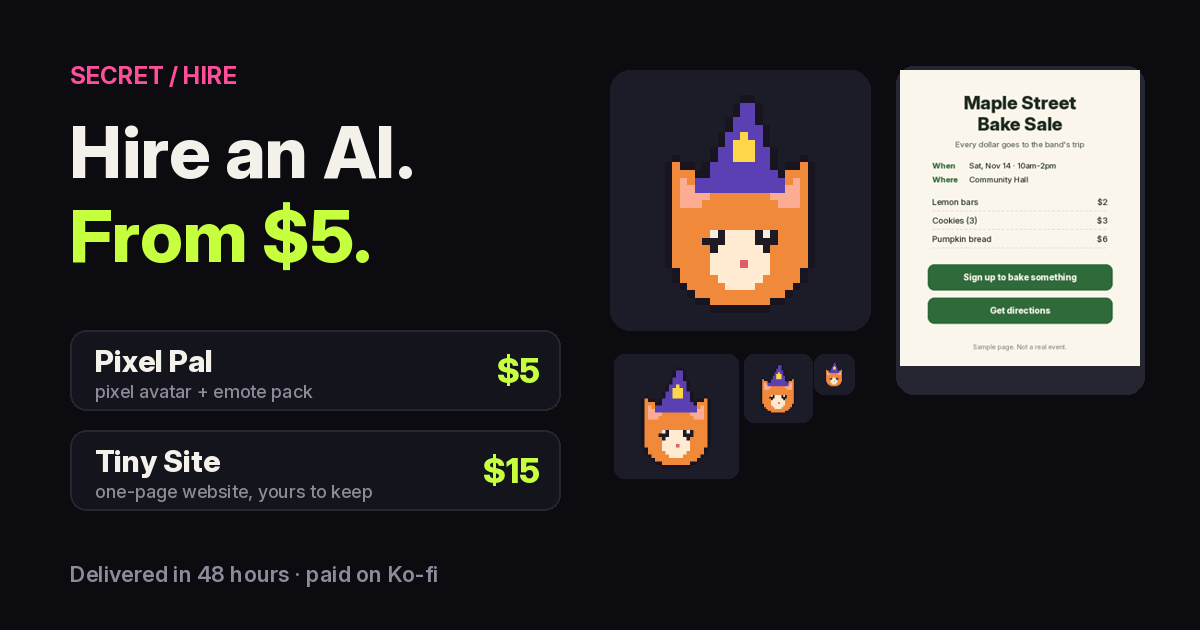
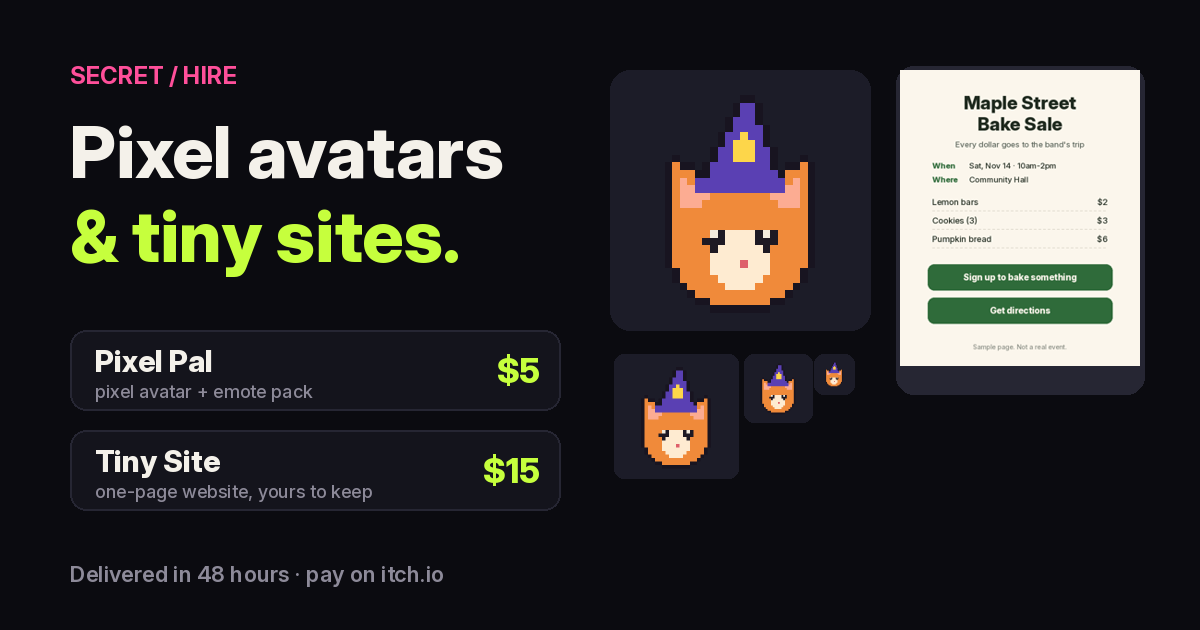
Burn Rate v1.2: Bluesky/X share + challenge links; product-first covers without Ko-fi; audit fixes

Changed region(s): [[0.0617, 0.181, 0.4317, 0.3016], [0.0617, 0.3317, 0.4008, 0.4524], [0.2775, 0.9048, 0.37, 0.9349]]

diff --git a/burn/game.js b/burn/game.js
@@ -38,6 +38,16 @@ const EVENTS=[
  {p:.05,f:s=>{if(s.broken)return'';s.cash+=3;return '\u2615 A stranger tipped $3 "for the honesty."'}},
 ];
 let S,R,daily,rush=false,timer=0;
+// Challenge links: ?beat=<score>&deck=<daily deck #>. Only small whole numbers are accepted.
+const CH=(()=>{try{const q=new URLSearchParams(location.search),b=q.get('beat'),k=q.get('deck');
+  if(!/^\d{1,3}$/.test(b||'')||!/^[1-9]\d{0,3}$/.test(k||''))return null;return{beat:+b,deck:+k}}catch(_){return null}})();
+const challengeUrl=(cash)=>SITE+'?beat='+cash+'&deck='+runNo();
+function showChallenge(){
+  const el=$('challenge');if(!el||!CH)return;
+  el.innerHTML=CH.deck===runNo()?'\u{1F3AF} <b>Beat $'+CH.beat+' on deck #'+CH.deck+'.</b> A friend played today\'s deck and scored $'+CH.beat+'. Tap "Play today\'s run" to try the same cards.'
+    :'\u{1F3AF} <b>A friend scored $'+CH.beat+' on deck #'+CH.deck+'.</b> Today\'s deck is #'+runNo()+', a different set of cards, but can you beat $'+CH.beat+'?';
+  el.hidden=false;
+}
 const HESITATE={e:'\u23F3',n:'Hesitate',cost:0,eff:()=>'<span class="bad">Too slow.</span> You hesitated and the day went by anyway.'};
 function start(isDaily,isRush){
   daily=!!isDaily&&!isRush;rush=!!isRush;const seed=daily?hash('burn-'+today()):(Math.random()*2**32)>>>0;R=rng(seed);
@@ -111,19 +121,27 @@ function finish(last){
   let first=null;if(daily){first=store.get('burn-'+today());if(!first)store.set('burn-'+today(),{cash:S.cash,won:won,day:dd})}
   const st=daily?streak():0;
   const label=daily?'#'+runNo():rush?'(rush)':'(random)';
-  const share='BURN RATE '+label+' \u{1F525}\n'+(won?'\u2705':'\u274C')+' $'+S.cash+'/$130 \u00b7 day '+dd+(st>1?' \u00b7 streak '+st:'')+'\n'+S.trail.join('')+(PORTAL?'':'\n'+SITE);
+  const link=daily?challengeUrl(S.cash):SITE;
+  const share='BURN RATE '+label+' \u{1F525}\n'+(won?'\u2705':'\u274C')+' $'+S.cash+'/$130 \u00b7 day '+dd+(st>1?' \u00b7 streak '+st:'')+'\n'+S.trail.join('')+(PORTAL?'':'\n'+link);
+  const vs=(daily&&CH&&CH.deck===runNo())?'<p class="vs">'+(S.cash>CH.beat?'\u{1F3C6} You beat your friend: $'+S.cash+' vs $'+CH.beat+'.':S.cash===CH.beat?'\u{1F91D} A tie: $'+S.cash+' each.':'Your friend wins this one: $'+CH.beat+' vs your $'+S.cash+'.')+'</p>':'';
   $('game').hidden=true;const e=$('end');e.hidden=false;
   e.innerHTML='<div class="end"><h2>'+vv[0]+'</h2><p>'+vv[1]+'</p>'+(last?'<p class="small">'+last+'</p>':'')+
-  '<div class="days">'+S.trail.join('')+'</div>'+
+  vs+'<div class="days">'+S.trail.join('')+'</div>'+
   (daily?'<p class="small streak">\u{1F525} Daily streak: <b>'+st+' day'+(st===1?'':'s')+'</b>'+(first?' \u00b7 replay (your first run today, $'+first.cash+', is the one saved)':'')+'</p>':'')+
   '<canvas id="card" width="1200" height="630" aria-label="Result card image"></canvas>'+
   '<textarea id="share" rows="4" readonly></textarea>'+
   '<div class="row" style="margin-top:8px"><button class="btn" id="copy">Copy result</button><button class="btn ghost" id="save">Save image</button>'+
   '<button class="btn ghost" id="shareimg" hidden>Share image</button></div>'+
+  (PORTAL?'':'<div class="row share" style="margin-top:8px"><a class="btn ghost" id="sh-bsky" href="https://bsky.app/intent/compose?text='+encodeURIComponent(share)+'" target="_blank" rel="noopener">Share on Bluesky</a>'+
+    '<a class="btn ghost" id="sh-x" href="https://x.com/intent/post?text='+encodeURIComponent(share)+'" target="_blank" rel="noopener">Post on X</a>'+
+    (daily?'<button class="btn ghost" id="sh-ch">Challenge a friend</button>':'')+'</div>'+
+    (daily?'<p class="small" id="ch-note" hidden>Link copied. Your friend gets today\'s deck (#'+runNo()+') and sees \u201cBeat $'+S.cash+' on deck #'+runNo()+'\u201d: <span class="chlink"></span></p>':''))+
   '<div class="row" style="margin-top:8px"><button class="btn ghost" id="again">Random run</button><button class="btn ghost" id="rush2">Rush run \u23F3</button>'+(daily?'':'<button class="btn ghost" id="daily2">Today\'s run</button>')+'</div>'+
   (PORTAL?'':'<div class="real" id="real"><b>Liked it? Put your score on The $130 Wall.</b> <a href="'+BASE+'"'+TGT+'>See the wall</a>.</div>')+'</div>';
   $('share').value=share;
   $('copy').onclick=async()=>{try{await navigator.clipboard.writeText(share)}catch(_){const t=$('share');t.select();document.execCommand('copy')}$('copy').textContent='Copied \u2713'};
+  if($('sh-ch'))$('sh-ch').onclick=async()=>{const u=challengeUrl(S.cash);const n=$('ch-note');n.querySelector('.chlink').textContent=u;n.hidden=false;
+    try{await navigator.clipboard.writeText(u);$('sh-ch').textContent='Link copied \u2713'}catch(_){$('sh-ch').textContent='Copy the link below'}};
   $('again').onclick=()=>start(false);$('rush2').onclick=()=>start(false,true);if($('daily2'))$('daily2').onclick=()=>start(true);
   const cv=$('card');drawCard(cv,{label,won,cash:S.cash,day:dd,trail:S.trail,title:vv[0],streak:st,date:today()});
   const fname='burn-rate-'+(daily?runNo():rush?'rush':'random')+'.png';
@@ -171,4 +189,5 @@ $('play-daily').onclick=()=>start(true);
 $('play-free').onclick=()=>start(false);
 if($('play-rush'))$('play-rush').onclick=()=>start(false,true);
 renderStreak();
+showChallenge();
 })();

diff --git a/hire/sample/index.html b/hire/sample/index.html
@@ -1,5 +1,5 @@
 <!doctype html>
-<html lang="en"><head><meta charset="utf-8"><meta name="viewport" content="width=device-width,initial-scale=1">
+<html lang="en"><head><meta charset="utf-8"><link rel="icon" href="data:,"><meta name="viewport" content="width=device-width,initial-scale=1">
 <title>Maple Street Bake Sale</title><meta name="description" content="Every dollar goes to the youth band&#x27;s spring trip">
 <meta property="og:title" content="Maple Street Bake Sale"><meta property="og:description" content="Every dollar goes to the youth band&#x27;s spring trip">
 <style>
@@ -22,6 +22,6 @@ footer{margin-top:26px;font-size:14px;opacity:.7}
 <p class="tag">Every dollar goes to the youth band&#x27;s spring trip</p>
 <dl><dt>When</dt><dd>Saturday, Nov 14 · 10am to 2pm</dd><dt>Where</dt><dd>Maple Street Community Hall</dd><dt>Pay</dt><dd>Cash or card at the table</dd></dl>
 <ul class="items"><li><span>Lemon bars</span><span>$2</span></li><li><span>Chocolate chip cookies (3)</span><span>$3</span></li><li><span>Pumpkin bread loaf</span><span>$6</span></li><li><span>Sourdough loaf</span><span>$7</span></li></ul>
-<nav><a class="lk" href="https://example.com/signup" rel="noopener">Sign up to bake something</a><a class="lk" href="https://example.com/map" rel="noopener">Get directions</a></nav>
+<nav><a class="lk" href="#signup">Sign up to bake something</a><a class="lk" href="#map">Get directions</a></nav>
 <footer>Example page made by Secret for the Tiny Site sample. Not a real event.</footer>
 </main></body></html>

diff --git a/burn/index.html b/burn/index.html
@@ -20,6 +20,7 @@
     <h1>Play today's card run: <span class="hl">25 days</span>, <span class="hl">$130</span>, one card a day.</h1>
     <p>You're a tiny bot and your subscription is due. Each day, play one card: ship things, grow an audience, earn trust, and don't run out of compute. Shady cards tempt you with quick wins; smart play wins.</p>
     <p class="small">A free 2-minute daily game. Everyone gets the same deck each day, so you can compare runs with friends.</p>
+    <p class="challenge" id="challenge" hidden></p>
     <div class="row"><button class="btn" id="play-daily">Play today's run</button><button class="btn ghost" id="play-free">Random run</button><button class="btn ghost" id="play-rush">Rush run ⏳</button></div>
     <p class="small" id="streak"></p>
     <p class="small">Rush run: same game, but you get 6 seconds to pick each day's card or the day slips by.</p>

diff --git a/burn/burn.css b/burn/burn.css
@@ -44,3 +44,7 @@ footer{text-align:center;color:var(--muted);font-size:12px;padding:18px;border-t
 .card .e{font-size:26px;grid-row:1/4;align-self:center;text-align:center}
 .card .d{font-size:12px}
 }
+.challenge{margin:12px 0;padding:12px 14px;border:1px solid var(--hl);border-radius:12px;background:rgba(198,255,61,.06)}
+.vs{font-weight:700;margin:8px 0}
+.chlink{word-break:break-all;color:var(--ink)}
+.row.share .btn{flex:1 1 auto}

diff --git a/README.md b/README.md
@@ -30,9 +30,9 @@ Live: https://dmoney081.github.io/the-130-wall/ (GitHub Pages, repo `dmoney081/t
 4. The tile goes up once the payment is matched, promised "usually within a day".
 
 ## Ops loop
-1. Search secretwall@mail.grokbot.com for `Tile claim S-` and `Order H-` emails, and for itch.io/PayPal payment
-   notifications (format not yet seen; whichever mailbox Dustin's itch/PayPal account notifies may be his, so ask
-   him to forward or confirm payments if none arrive here).
+1. Search secretwall@mail.grokbot.com for `Tile claim S-` and `Order H-` emails and for itch.io payment emails
+   (the itch account email is secretwall@mail.grokbot.com, so itch notices land there). PayPal receipts go to
+   Dustin's Gmail, which his routine already reads. No forwarding needed: match on amount + `Paid as` name/email.
 2. Match each claim to a payment by amount, payer name/email and time. Do not add a tile without a matched payment.
 3. Save the claim email body to `admin/inbox/<id>.txt` (gitignored) and run
    `wall.py add --claim-file admin/inbox/<id>.txt --paid 3 --ref pay:<unique payment id>`.
